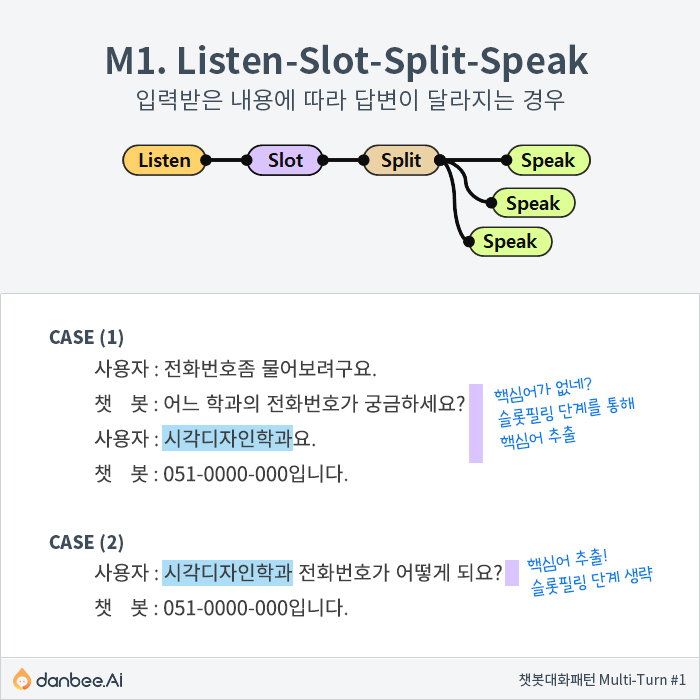
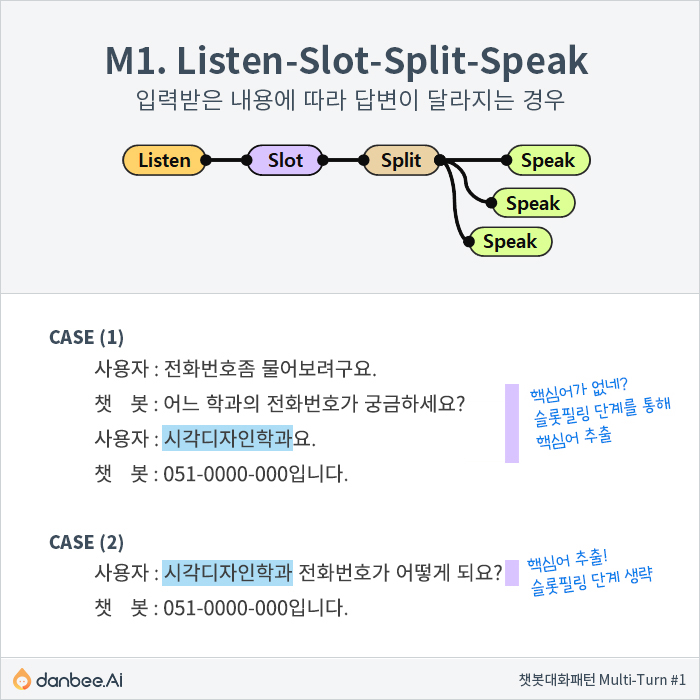
이미지 어색한거랑 문구 수정 멀티턴.

Changed region(s): [[0.66, 0.54, 0.96, 0.66], [0.99, 0.0, 1.0, 0.42]]

diff --git a/pages/blog/blog_015_UX08_chatflow_pattern_multi.md b/pages/blog/blog_015_UX08_chatflow_pattern_multi.md
@@ -16,24 +16,27 @@ folder: blog
 단, 사용자의 최초 발화에서 챗봇에게 필요한 정보가 있는 경우 되묻기(Slot-Filling)단계를 건너뛰기도 한다. 
 
 ### 생각보다 단순한 대화의 원리, 묻고 답하기
-	1. 무언가를 물어본다.
-	2. 알면 대답한다.
-	3. 모르면 알기 위해 추가정보를 되묻는다.
-	4. 받은 정보에 따라 대답한다.
+
+1. 무언가를 물어본다.
+2. 알면 대답한다.
+3. 모르면 알기 위해 추가정보를 되묻는다.
+4. 받은 정보에 따라 대답한다.
+
 
 ### 생각보다 단순한 대화의 원리, 부탁하기 (요청/지시)
-	1. 무언가를 부탁한다.
-	2. 부탁을 처리하기에 충분하다면 처리해준다.
-	3. 부탁을 처리하기에 불충분하다면 추가 정보를 되묻는다.
-    4. 받은 정보에 따라 처리해준다.
+
+1. 무언가를 부탁한다.
+2. 부탁을 처리하기에 충분하다면 처리해준다.
+3. 부탁을 처리하기에 불충분하다면 추가 정보를 되묻는다.
+4. 받은 정보에 따라 처리해준다.
 
 ## 되묻기. 슬롯필링 (Slot-Filling)
 슬롯필링은 보다 정확한 정보를 제공하기 위해 필요한 정보를 사용자에게 요구하여 받아내는 기법이다. 멀티턴에서는 대부분 슬롯필링을 이용해 사용자의 입력을 유도한다. 이는 자연어 처리가 가능한 챗봇에서 단답형 다음으로 많이 사용되는 패턴이다. 
 
 예컨데, 챗봇에게 “전화번호 문의”에 해당하는 문장을 다음과 같은 형식으로 발화할 수 있다.
 
-	(1) ”전화번호 좀 물어보려구요.“
-	(2) “시각디자인학과 전화번호가 어떻게 되요?”
+<strong>CASE (1)</strong> 전화번호 좀 물어보려구요. <br />
+<strong>CASE (2)</strong> 시각디자인학과 전화번호가 어떻게 되요?<br />
 
 (1)번의 경우, 전화번호 문의라는 의도로 해석은 되지만 무슨 학과에 해당하는지는 알기 어렵다. (2)번의 경우, 전화번호 문의라는 의도로 해석되는 동시에 “시각디자인학과”라는 핵심어가 존재한다. (1)과 같은 상황이라면 답변하기 위해서는 “어디 전화번호요?” 라고 되물어 볼 수 있다. 이때, 사용자가 “물리학과” 라고 대답하면 비로소 해당 학과의 전화번호를 알려주는 방식이다.
 
@@ -42,7 +45,7 @@ folder: blog
 슬롯필링을 통해 받은 정보에 따라 API결과가 달라질 수도 있다. 다시 말해 API로 전달되는 정보를 슬롯필링을 통해 사용자에게 받아내는 것이다. 
 
 
-{% include image.html file="blog/UX/chatflow_pattern_M2.jpg" alt="멀티턴 대화흐름 2번째. 슬롯필링과 Api노드 함께 적용" caption="멀티턴 2번, 리슨-슬롯-API-스플릿-스피크" %}
+{% include image.html file="blog/UX/chatflow_pattern_M2.jpg" alt="멀티턴 대화흐름 2번째. 슬롯필링과 Api노드 함께 적용" caption="멀티턴 2번, 리슨-슬롯-API-스플릿-스피크" max-width="700" %}
 
 M2패턴을 살펴보면, 기상청 API에서 지역 날씨 정보를 가져오기 위해 지역을 슬롯필링으로 가져오고, 지역에 따라 말투를 다르게 설정하여 사용자에게 더 재미있는 경험을 제공하고 있다. 
 
